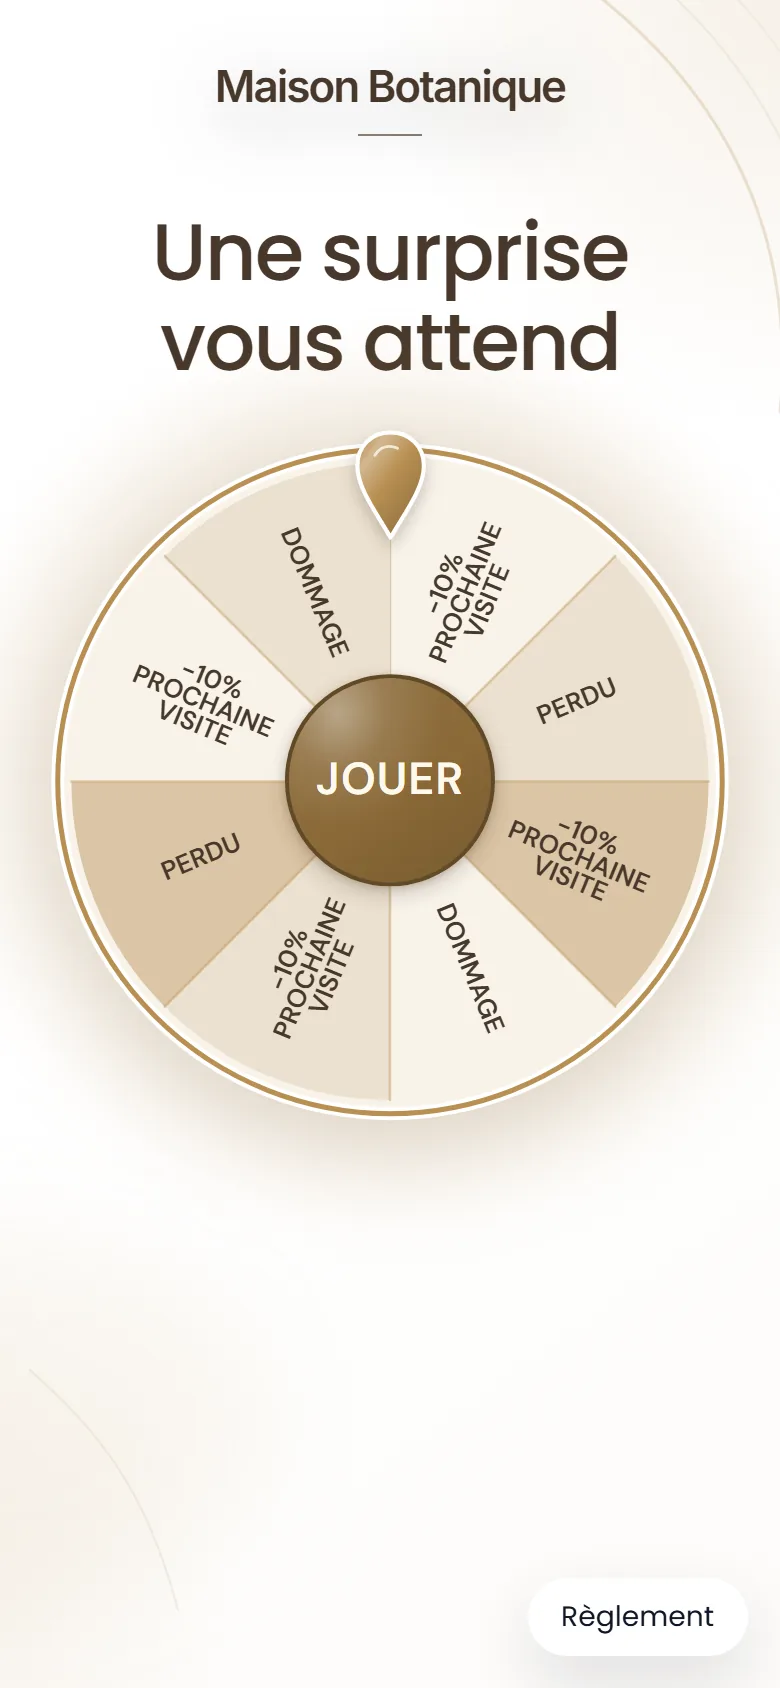
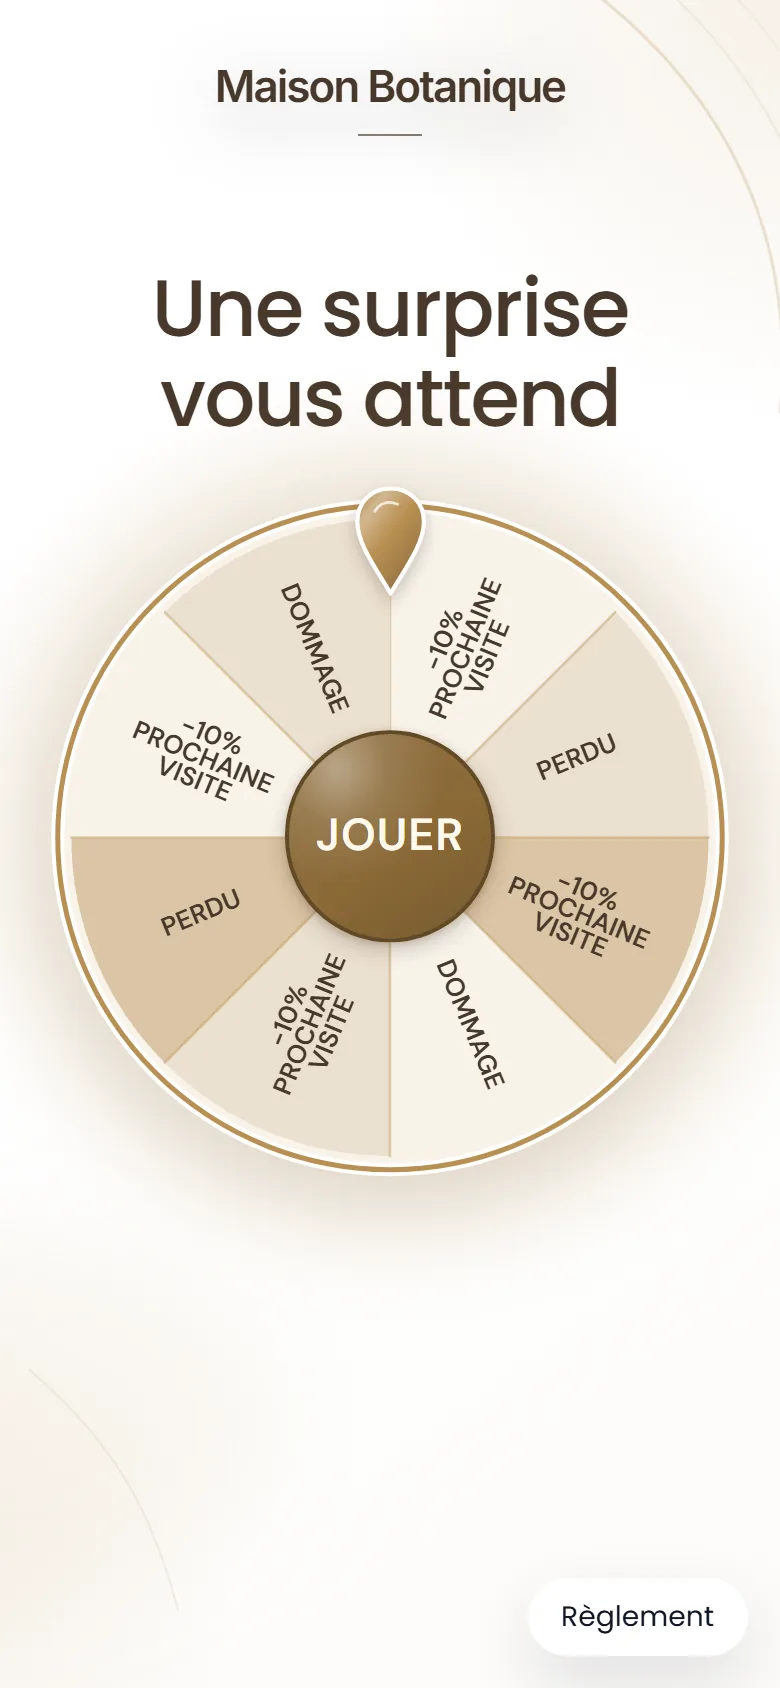
Give marketing game headers more breathing room

Changed region(s): [[0.0615, 0.1232, 0.9538, 0.7085]]

diff --git a/apps/web-app/e2e/fixtures/template-rendering.tsx b/apps/web-app/e2e/fixtures/template-rendering.tsx
@@ -71,7 +71,7 @@ export function TemplateRenderingProof({ mode = "preview", templateId = "classic
       background: { mode: backgroundImage ? "image" as const : "color" as const,
         color: backgroundImage ? "#ffffff" : background,
         imageUrl: backgroundImage },
-      logo: { ...halloweenFixture.presentation.logo, textColor: color, marginBottomPx: business ? 36 : 20 },
+      logo: { ...halloweenFixture.presentation.logo, textColor: color, marginBottomPx: business ? 64 : 20 },
       heading: { ...halloweenFixture.presentation.heading, textColor: color, fontSizePx: business === "retail" ? 34 : 40, fontFamily: font ?? "poppins" as const },
       wheel: wheelPaletteForTemplate(templateId, halloweenFixture.presentation.wheel),
       layout: { ...halloweenFixture.presentation.layout, templateId, blockSpacingPx: 25,

diff --git a/apps/web-app/e2e/game-screen-layout.spec.ts b/apps/web-app/e2e/game-screen-layout.spec.ts
@@ -83,7 +83,7 @@ test("game screens marketing : captures joueur réelles sur données synthétiqu
     "beauty-scratch-noir-or": "#f2e4c5",
     "beauty-scratch-lilas": "#44314d",
     "beauty-pop": "#49313e",
-    "beauty-editorial": "#f2e4c5",
+    "beauty-editorial": "#4c3b24",
     "beauty-nude": "#48382b",
     classic: "#ffffff",
     "scratch-confetti": "#3c3045",
